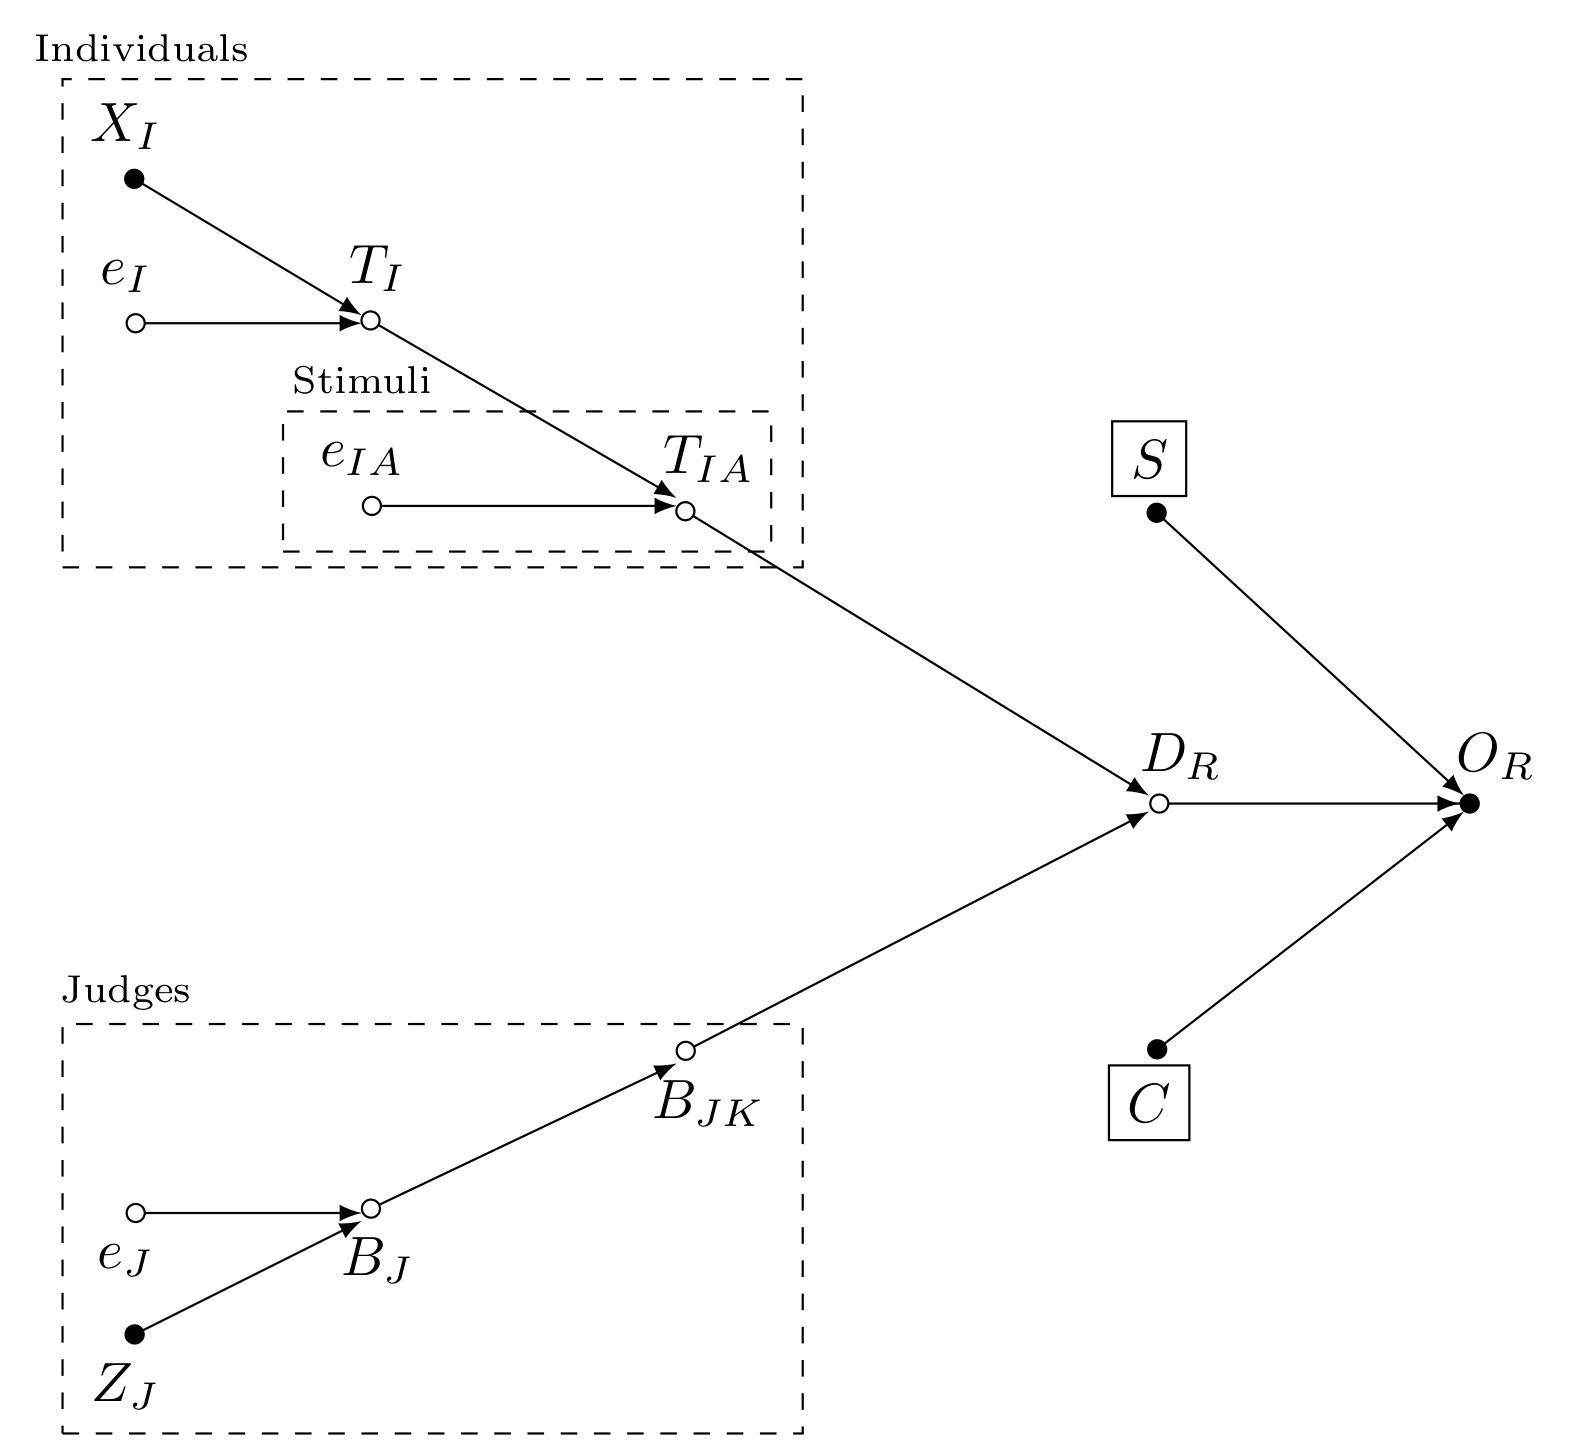
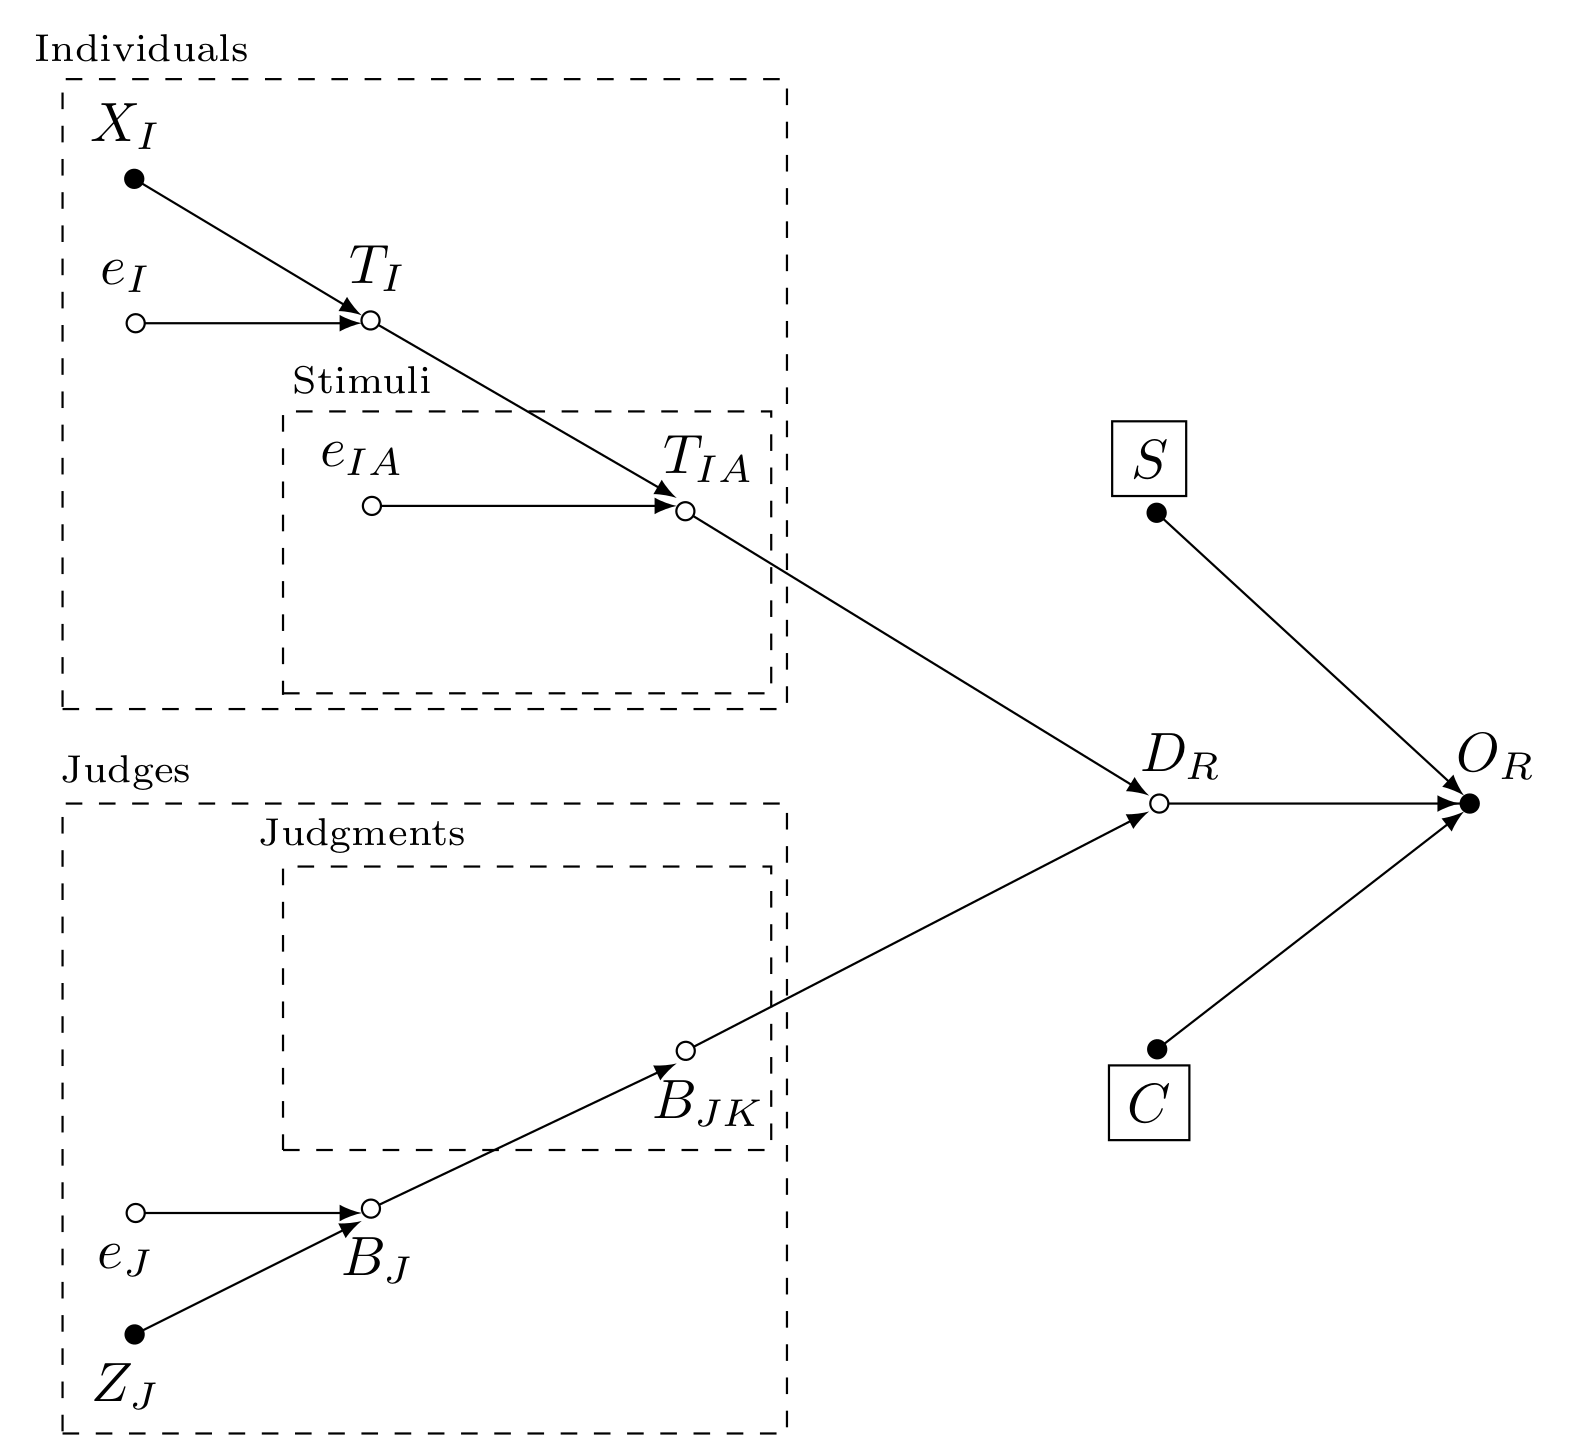
section:theory; process:write,figures

Changed region(s): [[0.1561, 0.5582, 0.2809, 0.5892], [0.0312, 0.6823, 0.1248, 0.7133], [0.0312, 0.5272, 0.1248, 0.5582]]

diff --git a/3_results/population_summary/CJ_population_DAG.tex b/3_results/population_summary/CJ_population_DAG.tex
@@ -1,0 +1,105 @@
+\documentclass[tikz, border=1mm]{standalone}
+\usepackage{tikz} 
+\usetikzlibrary{arrows.meta}
+\usepackage{pgfplots}
+
+\begin{document}
+
+\begin{tikzpicture}
+
+    %%%%%%%%%%%%%%%%%%%%%%%%%%%%%%%%%%%%%%%%%%%%%%%%%%%%%%
+    
+    % "true" discriminal process for sub-unit
+    \node at (-3.8,1.89) {$T_{IA}$}; %[gray]
+    \draw[{Circle[open]}-{latex}](-4,1.59) to (-1,-0.25); %,gray
+
+    %%%%%%%%%%%%%%%%%%%%%%%%%%%%%%%%%%%%%%%%%%%%%%%%%%%%%%
+
+    % "true" judgments' bias k_{j}
+    \node at (-3.8,-2.2) {$B_{JK}$}; %[gray]
+    \draw[{Circle[open]}-{latex}](-4,-1.9) to (-1,-0.35); %,gray
+
+    %%%%%%%%%%%%%%%%%%%%%%%%%%%%%%%%%%%%%%%%%%%%%%%%%%%%%%
+
+    % discriminal difference
+    \node at (-0.8,0) {$D_{R}$}; %[gray]
+    \draw[{Circle[open]}-{latex}{Circle}](-1,-0.3) to (1.1,-0.3); %,gray
+
+    % sampling mechanism
+    \node[rectangle,draw] at (-1,1.89) {$S$}; %,gray
+    \draw[{Circle}-{latex}](-1,1.59) to (1,-0.25); %,gray
+
+    % comparison mechanism 
+    \node[rectangle,draw] at (-1,-2.2) {$C$}; %,gray
+    \draw[{Circle}-{latex}](-1,-1.9) to (1,-0.35); %,gray
+    
+    % observed outcome
+    \node at (1.2,0) {$O_{R}$}; %[gray]
+    
+    %%%%%%%%%%%%%%%%%%%%%%%%%%%%%%%%%%%%%%%%%%%%%%%%%%%%%%
+
+    % "true" discriminal process of unit
+    \node at (-5.9,3.1) {$T_{I}$}; %[gray]
+    \draw[{Circle[open]}-{latex}](-6,2.8) to (-4,1.64); %,gray
+    
+    % sub-units' cluster
+    \node[font=\scriptsize] at (-6,2.39) {Stimuli}; %,gray
+    \draw[dashed] (-6.5,0.4)--(-3.4,0.4)--(-3.4,2.19)--(-6.5,2.19)--(-6.5,0.39); %,gray
+    
+    % sub-units error
+    \node at (-6,1.89) {$e_{IA}$}; %[gray]
+    \draw[{Circle[open]}-{latex}](-6,1.59) to (-4,1.59); %,gray
+    
+    % predictors for sub-unit
+    %\node at (-6,0.93) {$X_{IA}$}; %[gray]
+    %\draw[{Circle}-{latex}](-6,0.59) to (-4,1.54); %,gray
+
+    %%%%%%%%%%%%%%%%%%%%%%%%%%%%%%%%%%%%%%%%%%%%%%%%%%%%%%
+
+    % units' cluster
+    \node[font=\scriptsize] at (-7.4,4.5) {Individuals}; %,gray
+    \draw[dashed] (-7.9,0.3)--(-3.3,0.3)--(-3.3,4.3)--(-7.9,4.3)--(-7.9,0.3); %,gray
+    
+    % predictors for units
+    \node at (-7.5,4) {$X_{I}$}; %[gray]
+    \draw[{Circle}-{latex}](-7.5,3.7) to (-6,2.8); %,gray
+
+    % units trait error
+    \node at (-7.5,3.05) {$e_{I}$}; %[gray]
+    \draw[{Circle[open]}-{latex}](-7.5,2.75) to (-6,2.75); %,gray
+
+    %%%%%%%%%%%%%%%%%%%%%%%%%%%%%%%%%%%%%%%%%%%%%%%%%%%%%%
+
+    % judges' bias
+    \node at (-5.9,-3.2) {$B_{J}$}; %[gray]
+    \draw[{Circle[open]}-{latex}](-6,-2.9) to (-4,-1.95); %,gray
+
+    % judgments' cluster
+    \node[font=\scriptsize] at (-6,-0.5) {Judgments}; %,gray
+    \draw[dashed] (-6.5,-2.5)--(-3.4,-2.5)--(-3.4,-0.7)--(-6.5,-0.7)--(-6.5,-2.5); %,gray
+    
+    % judgments' bias error 
+    %\node at (-6,-2.2) {$e_{JK}$}; %[gray]
+    %\draw[{Circle[open]}-{latex}](-6,-1.9) to (-4,-1.9); %,gray
+    
+    % predictors for judgments
+    %\node at (-6,-1.2) {$Z_{JK}$}; %[gray]
+    %\draw[{Circle}-{latex}](-6,-0.9) to (-4,-1.85); %,gray
+    
+    %%%%%%%%%%%%%%%%%%%%%%%%%%%%%%%%%%%%%%%%%%%%%%%%%%%%%%
+
+    % judges' cluster
+    \node[font=\scriptsize] at (-7.5,-0.1) {Judges}; %,gray
+    \draw[dashed] (-7.9,-4.3)--(-3.3,-4.3)--(-3.3,-0.3)--(-7.9,-0.3)--(-7.9,-4.3); %,gray
+    
+    % predictors for judges' bias
+    \node at (-7.5,-4) {$Z_{J}$}; %[gray]
+    \draw[{Circle}-{latex}](-7.5,-3.7) to (-6,-2.95); %,gray
+    
+    % judges' bias error
+    \node at (-7.5,-3.2) {$e_{J}$}; %[gray]
+    \draw[{Circle[open]}-{latex}](-7.5,-2.9) to (-6,-2.9); %,gray
+        
+\end{tikzpicture}
+
+\end{document}